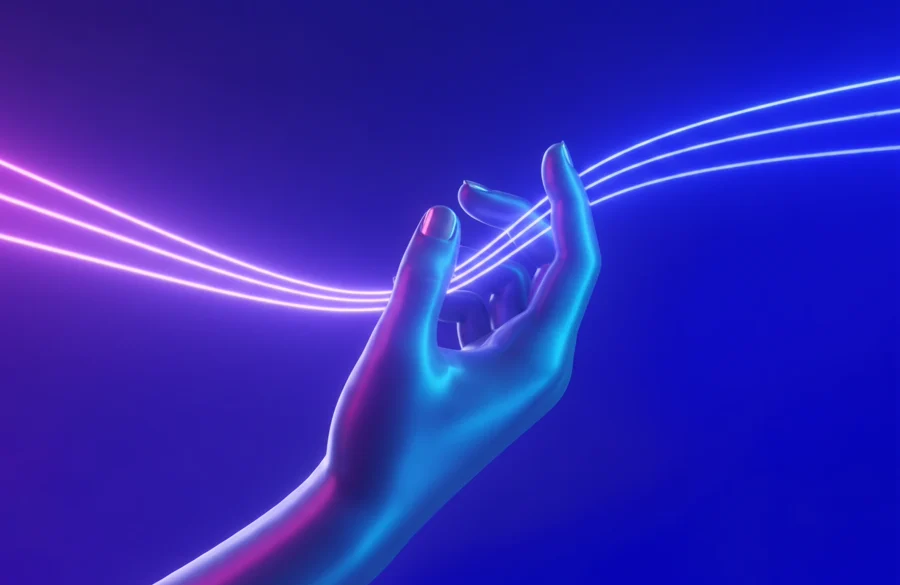
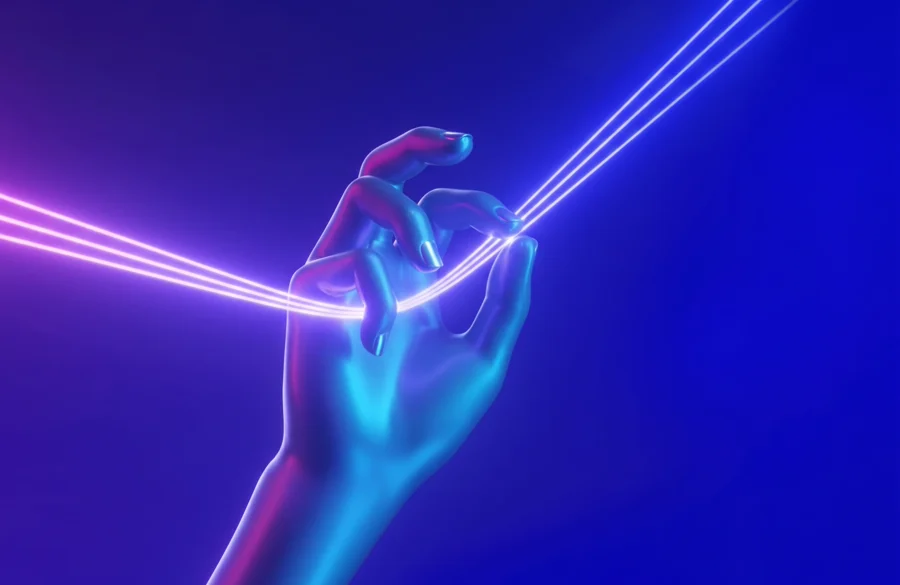
Hero : la main bouge au lieu de se fondre
Les neuf rendus disponibles ont été comparés deux à deux sur une
vignette en niveaux de gris, puis classés pour que deux poses qui se
suivent soient les plus proches possible : 2, 4, 5, 3, 9, 8. Les trois
poses trop éloignées du reste (faisceau en vague, étincelles, bras en
diagonale) sont écartées, elles cassaient la continuité.

La boucle se joue en aller-retour, donc le geste revient sur ses pas au
lieu de sauter à la fin. 0,62 s par pose, 0,22 s de fondu, 6,2 s de
cycle. Les keyframes par calque sont générées pour que la boucle se
referme sans à-coup et qu'une pose soit toujours pleinement opaque.

L'interpolation de mouvement a été essayée (ffmpeg minterpolate, mode
mci) : entre des poses aussi différentes elle produit des blocs et des
déchirures sur la main. Écartée.

Changed region(s): [[0.0, 0.0, 1.0, 1.0]]

diff --git a/dist/index.html b/dist/index.html
@@ -487,18 +487,27 @@ main:focus{outline:none}
  .marquee{-webkit-mask-image:none;mask-image:none;overflow-x:auto}
 }
 
-/* Le hero respire : six poses du visuel de marque en fondu enchaîné.
-   Cycle de 19,8 s, 3,3 s par pose, 0,8 s de transition. La première reste
-   dessous en permanence, donc la boucle se referme sans à-coup et la page
-   s'ouvre toujours sur elle. */
-.hand-2,.hand-3,.hand-4,.hand-5,.hand-6{opacity:0;animation:pose 19.8s linear infinite}
-.hand-2{animation-delay:3.3s}
-.hand-3{animation-delay:6.6s}
-.hand-4{animation-delay:9.9s}
-.hand-5{animation-delay:13.2s}
-.hand-6{animation-delay:16.5s}
-@keyframes pose{0%{opacity:0}4%{opacity:1}16.7%{opacity:1}20.7%{opacity:0}100%{opacity:0}}
-@media (prefers-reduced-motion:reduce){.hand-2,.hand-3,.hand-4,.hand-5,.hand-6{animation:none;opacity:0}}
+/* Le hero bouge : six poses de la main classées par proximité visuelle,
+   jouées en aller-retour pour que le geste revienne sur ses pas au lieu de
+   sauter. 0,62 s par pose, 0,22 s de fondu, 6,2 s de boucle. Rien que de
+   l'opacité, donc composité par le GPU. */
+.hand-1,.hand-2,.hand-3,.hand-4,.hand-5,.hand-6{opacity:0;animation:6.2s linear infinite}
+.hand-1{animation-name:p1}
+.hand-2{animation-name:p2}
+.hand-3{animation-name:p3}
+.hand-4{animation-name:p4}
+.hand-5{animation-name:p5}
+.hand-6{animation-name:p6}
+@keyframes p1{0%{opacity:1} 10%{opacity:1} 13.5%{opacity:0} 96.5%{opacity:0} 100%{opacity:1}}
+@keyframes p2{0%{opacity:1} 3.5%{opacity:0} 6.5%{opacity:0} 10%{opacity:1} 20%{opacity:1} 23.5%{opacity:0} 86.5%{opacity:0} 90%{opacity:1} 100%{opacity:1}}
+@keyframes p3{0%{opacity:0} 16.5%{opacity:0} 20%{opacity:1} 30%{opacity:1} 33.5%{opacity:0} 76.5%{opacity:0} 80%{opacity:1} 90%{opacity:1} 93.5%{opacity:0} 100%{opacity:0}}
+@keyframes p4{0%{opacity:0} 26.5%{opacity:0} 30%{opacity:1} 40%{opacity:1} 43.5%{opacity:0} 66.5%{opacity:0} 70%{opacity:1} 80%{opacity:1} 83.5%{opacity:0} 100%{opacity:0}}
+@keyframes p5{0%{opacity:0} 36.5%{opacity:0} 40%{opacity:1} 50%{opacity:1} 53.5%{opacity:0} 56.5%{opacity:0} 60%{opacity:1} 70%{opacity:1} 73.5%{opacity:0} 100%{opacity:0}}
+@keyframes p6{0%{opacity:0} 46.5%{opacity:0} 50%{opacity:1} 60%{opacity:1} 63.5%{opacity:0} 100%{opacity:0}}
+@media (prefers-reduced-motion:reduce){
+ .hand-1,.hand-2,.hand-3,.hand-4,.hand-5,.hand-6{animation:none;opacity:0}
+ .hand-1{opacity:1}
+}
 
 </style>
 </head>

diff --git a/index.html b/index.html
@@ -487,18 +487,27 @@ main:focus{outline:none}
  .marquee{-webkit-mask-image:none;mask-image:none;overflow-x:auto}
 }
 
-/* Le hero respire : six poses du visuel de marque en fondu enchaîné.
-   Cycle de 19,8 s, 3,3 s par pose, 0,8 s de transition. La première reste
-   dessous en permanence, donc la boucle se referme sans à-coup et la page
-   s'ouvre toujours sur elle. */
-.hand-2,.hand-3,.hand-4,.hand-5,.hand-6{opacity:0;animation:pose 19.8s linear infinite}
-.hand-2{animation-delay:3.3s}
-.hand-3{animation-delay:6.6s}
-.hand-4{animation-delay:9.9s}
-.hand-5{animation-delay:13.2s}
-.hand-6{animation-delay:16.5s}
-@keyframes pose{0%{opacity:0}4%{opacity:1}16.7%{opacity:1}20.7%{opacity:0}100%{opacity:0}}
-@media (prefers-reduced-motion:reduce){.hand-2,.hand-3,.hand-4,.hand-5,.hand-6{animation:none;opacity:0}}
+/* Le hero bouge : six poses de la main classées par proximité visuelle,
+   jouées en aller-retour pour que le geste revienne sur ses pas au lieu de
+   sauter. 0,62 s par pose, 0,22 s de fondu, 6,2 s de boucle. Rien que de
+   l'opacité, donc composité par le GPU. */
+.hand-1,.hand-2,.hand-3,.hand-4,.hand-5,.hand-6{opacity:0;animation:6.2s linear infinite}
+.hand-1{animation-name:p1}
+.hand-2{animation-name:p2}
+.hand-3{animation-name:p3}
+.hand-4{animation-name:p4}
+.hand-5{animation-name:p5}
+.hand-6{animation-name:p6}
+@keyframes p1{0%{opacity:1} 10%{opacity:1} 13.5%{opacity:0} 96.5%{opacity:0} 100%{opacity:1}}
+@keyframes p2{0%{opacity:1} 3.5%{opacity:0} 6.5%{opacity:0} 10%{opacity:1} 20%{opacity:1} 23.5%{opacity:0} 86.5%{opacity:0} 90%{opacity:1} 100%{opacity:1}}
+@keyframes p3{0%{opacity:0} 16.5%{opacity:0} 20%{opacity:1} 30%{opacity:1} 33.5%{opacity:0} 76.5%{opacity:0} 80%{opacity:1} 90%{opacity:1} 93.5%{opacity:0} 100%{opacity:0}}
+@keyframes p4{0%{opacity:0} 26.5%{opacity:0} 30%{opacity:1} 40%{opacity:1} 43.5%{opacity:0} 66.5%{opacity:0} 70%{opacity:1} 80%{opacity:1} 83.5%{opacity:0} 100%{opacity:0}}
+@keyframes p5{0%{opacity:0} 36.5%{opacity:0} 40%{opacity:1} 50%{opacity:1} 53.5%{opacity:0} 56.5%{opacity:0} 60%{opacity:1} 70%{opacity:1} 73.5%{opacity:0} 100%{opacity:0}}
+@keyframes p6{0%{opacity:0} 46.5%{opacity:0} 50%{opacity:1} 60%{opacity:1} 63.5%{opacity:0} 100%{opacity:0}}
+@media (prefers-reduced-motion:reduce){
+ .hand-1,.hand-2,.hand-3,.hand-4,.hand-5,.hand-6{animation:none;opacity:0}
+ .hand-1{opacity:1}
+}
 
 </style>
 </head>

diff --git a/src/site.css b/src/site.css
@@ -460,15 +460,24 @@ main:focus{outline:none}
  .marquee{-webkit-mask-image:none;mask-image:none;overflow-x:auto}
 }
 
-/* Le hero respire : six poses du visuel de marque en fondu enchaîné.
-   Cycle de 19,8 s, 3,3 s par pose, 0,8 s de transition. La première reste
-   dessous en permanence, donc la boucle se referme sans à-coup et la page
-   s'ouvre toujours sur elle. */
-.hand-2,.hand-3,.hand-4,.hand-5,.hand-6{opacity:0;animation:pose 19.8s linear infinite}
-.hand-2{animation-delay:3.3s}
-.hand-3{animation-delay:6.6s}
-.hand-4{animation-delay:9.9s}
-.hand-5{animation-delay:13.2s}
-.hand-6{animation-delay:16.5s}
-@keyframes pose{0%{opacity:0}4%{opacity:1}16.7%{opacity:1}20.7%{opacity:0}100%{opacity:0}}
-@media (prefers-reduced-motion:reduce){.hand-2,.hand-3,.hand-4,.hand-5,.hand-6{animation:none;opacity:0}}
+/* Le hero bouge : six poses de la main classées par proximité visuelle,
+   jouées en aller-retour pour que le geste revienne sur ses pas au lieu de
+   sauter. 0,62 s par pose, 0,22 s de fondu, 6,2 s de boucle. Rien que de
+   l'opacité, donc composité par le GPU. */
+.hand-1,.hand-2,.hand-3,.hand-4,.hand-5,.hand-6{opacity:0;animation:6.2s linear infinite}
+.hand-1{animation-name:p1}
+.hand-2{animation-name:p2}
+.hand-3{animation-name:p3}
+.hand-4{animation-name:p4}
+.hand-5{animation-name:p5}
+.hand-6{animation-name:p6}
+@keyframes p1{0%{opacity:1} 10%{opacity:1} 13.5%{opacity:0} 96.5%{opacity:0} 100%{opacity:1}}
+@keyframes p2{0%{opacity:1} 3.5%{opacity:0} 6.5%{opacity:0} 10%{opacity:1} 20%{opacity:1} 23.5%{opacity:0} 86.5%{opacity:0} 90%{opacity:1} 100%{opacity:1}}
+@keyframes p3{0%{opacity:0} 16.5%{opacity:0} 20%{opacity:1} 30%{opacity:1} 33.5%{opacity:0} 76.5%{opacity:0} 80%{opacity:1} 90%{opacity:1} 93.5%{opacity:0} 100%{opacity:0}}
+@keyframes p4{0%{opacity:0} 26.5%{opacity:0} 30%{opacity:1} 40%{opacity:1} 43.5%{opacity:0} 66.5%{opacity:0} 70%{opacity:1} 80%{opacity:1} 83.5%{opacity:0} 100%{opacity:0}}
+@keyframes p5{0%{opacity:0} 36.5%{opacity:0} 40%{opacity:1} 50%{opacity:1} 53.5%{opacity:0} 56.5%{opacity:0} 60%{opacity:1} 70%{opacity:1} 73.5%{opacity:0} 100%{opacity:0}}
+@keyframes p6{0%{opacity:0} 46.5%{opacity:0} 50%{opacity:1} 60%{opacity:1} 63.5%{opacity:0} 100%{opacity:0}}
+@media (prefers-reduced-motion:reduce){
+ .hand-1,.hand-2,.hand-3,.hand-4,.hand-5,.hand-6{animation:none;opacity:0}
+ .hand-1{opacity:1}
+}

diff --git a/src/site.jsx b/src/site.jsx
@@ -294,7 +294,7 @@ function HandVisual() {
       {POSES.map((alt, i) => (
         <img key={i} className={'hand hand-' + (i + 1)} src={`assets/hand-${i + 1}.webp`}
           width="900" height="585" alt={alt} aria-hidden={i ? 'true' : undefined}
-          fetchPriority={i ? 'low' : 'high'} decoding="async" />
+          fetchPriority={i ? "low" : "high"} decoding="async" />
       ))}
     </motion.div>
   );
